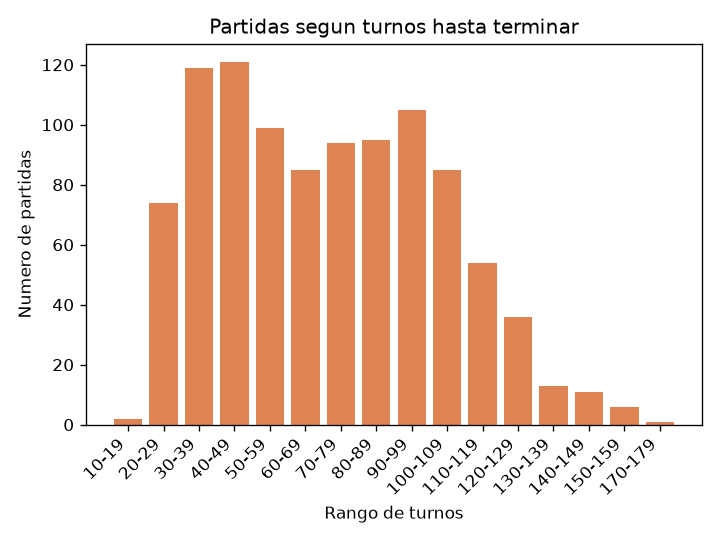
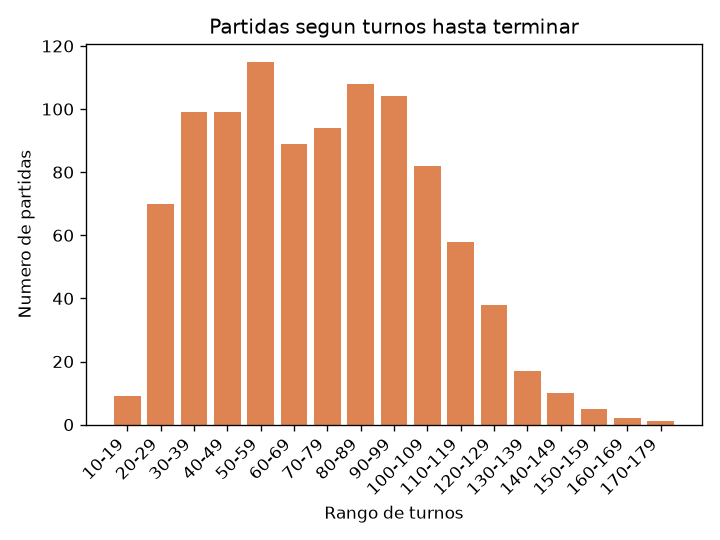
[DOCS]: Readme correction

diff --git a/README.md b/README.md
@@ -194,75 +194,76 @@ reproducirse offline.
 
 `main.py` corre un **batch de 1000 partidas independientes** (una por semilla,
 `seed=range(1000)`, estrategia `optimized`, tope de 500 turnos) vía `mesa.batch_run()`
-y produce tres gráficas de resumen. Estas son las estadísticas obtenidas en una corrida
-representativa de ese batch.
+y produce tres gráficas de resumen. Estas son las estadísticas obtenidas en la corrida
+más reciente del batch, ya con las correcciones al algoritmo aplicadas (validación de
+accesibilidad por pared/puerta en `_reaccion_fuego_adyacente`, extensión de esa función
+para apagar también humo, y acumulación de AP entre turnos).
 
 ### Tasa de victoria
 
-En promedio, la estrategia `optimized` **gana alrededor del 10% de las partidas**.
-Entre distintas corridas del mismo batch, la tasa observada varía: en los peores casos
-baja hasta **7%**, y en los mejores llega a **15%**. Esta variabilidad es esperable —
-cada partida depende de dónde caen las tiradas de fuego y de qué tan rápido escala el
-daño estructural antes de que el Coordinator pueda reaccionar.
+En esta corrida, la estrategia `optimized` **ganó ~21.5% de las partidas** (215/1000)
+— más del doble de la tasa reportada en la corrida anterior (~10%). El resto de las
+partidas (~78.5%) terminó en derrota, y en todas por la misma causa: no se registró
+ninguna partida perdida por víctimas. Este salto es consistente con haber corregido un
+bug que dejaba apagar fuego "a través" de paredes/puertas cerradas — el algoritmo
+anterior sobreestimaba su propia efectividad conteniendo el fuego, y esa sobreestimación
+se traducía en victorias que en una partida real no se habrían dado.
 
 ### Causa del resultado final
- 
-
-<div align=center>
-<img width="500" height="auto" alt="Figure_3" src="https://github.com/user-attachments/assets/22067e26-4c53-4e3c-b01c-8b7cbefc1f30" />
-</div>
 
 <br>
 
-La inmensa mayoría de las derrotas (~88% del total) ocurre por **colapso estructural**
-(≥24 puntos de daño), no por pérdida de víctimas — el conteo de partidas perdidas por
-víctimas es prácticamente nulo. Esto sugiere que el cuello de botella actual del
-algoritmo no es la logística de rescate en sí (el Coordinator sí llega a las víctimas a
-tiempo), sino la contención del fuego: las explosiones acumulan daño estructural más
-rápido de lo que el equipo puede apagar fuego general, incluso con el bono de triage.
+De las 1000 partidas, **785 se perdieron por colapso estructural** (≥24 puntos de daño)
+y **215 se ganaron**; ninguna terminó en derrota por pérdida de víctimas. La proporción
+de derrotas por daño estructural bajó de ~88% a ~78.5% respecto a la corrida anterior,
+pero sigue siendo, por un margen amplio, la causa dominante de derrota. El cuello de
+botella del algoritmo sigue siendo el mismo: la logística de rescate funciona bien (cero
+víctimas perdidas), pero contener el fuego real —sin el bug que lo abarataba— todavía no
+alcanza para evitar que la mayoría de los edificios colapse.
 
 ### Duración de las partidas
- 
- 
 
-<div align=center>
-<img width="500" height="auto" alt="Figure_2" src="https://github.com/user-attachments/assets/82e23c3b-7c7d-4934-8c07-d5385b4e2e3a" />
-</div>
+
 
 <br>
 
-La mayoría de las partidas termina entre los turnos **50 y 119**, con un pico
-claro en el rango **70-79**. Muy pocas partidas se extienden más allá de 150 turnos o
-terminan antes del turno 30 — es decir, el resultado (ganar o perder) tiende a
-definirse en una ventana relativamente consistente de la partida, ni demasiado
-temprano ni cerca del límite de 500 turnos.
+La distribución cambió de forma: el pico ahora está en el rango **50-59** turnos
+(~115 partidas), más temprano que el pico anterior (70-79). Sin embargo, aparece un
+segundo grupo casi tan alto entre **80-99** turnos (~108 y ~104 partidas
+respectivamente), dando una forma **bimodal**: un cúmulo de partidas que se resuelven
+rápido (probablemente derrotas tempranas por colapso estructural) y otro cúmulo de
+partidas más largas (probablemente los rescates que sí llegan a las 7 víctimas). Muy
+pocas partidas superan los 150 turnos o terminan antes del turno 20.
 
 ### Víctimas salvadas por partida
- 
 
- <div align=center>
-<img width="500" height="auto" alt="Figure_1" src="https://github.com/user-attachments/assets/90d58e68-69f8-4096-8ab9-46858381ce37" />
- </div>
 
 <br>
 
-La distribución de víctimas salvadas (de 0 a 7, el umbral de victoria) está
-concentrada en la zona media: **2 y 3 víctimas salvadas son los resultados más
-comunes**, seguidos de cerca por 1 y 4. Llegar a las 7 necesarias para ganar ocurre en
-una porción visible pero minoritaria de las partidas, coherente con la tasa de
-victoria de ~10% reportada arriba — el equipo suele avanzar bien en rescates parciales,
-pero rara vez sostiene ese ritmo el tiempo suficiente sin que el edificio colapse antes.
+Este es el cambio más marcado: la distribución dejó de concentrarse en la zona media
+(2-3 víctimas, como en la corrida anterior) y ahora tiene su **moda en 7 víctimas
+salvadas** (216 partidas, el resultado más común de todos), seguida de 1 víctima (176)
+y 2 víctimas (153). El resultado es una forma más bimodal que antes: las partidas
+tienden a **rescatar casi todo o casi nada**, con menos casos de rescates parciales
+"a medias" (4, 5 o 6 víctimas) que en la corrida anterior. Esto es coherente con la
+duración bimodal de arriba — cuando el equipo logra contener el fuego lo suficiente
+como para sobrevivir los primeros turnos críticos, tiende a terminar el trabajo casi
+por completo; cuando no, colapsa temprano habiendo rescatado poco.
 
 ### Lectura general
 
-En conjunto, las tres gráficas apuntan a la misma conclusión: el algoritmo de
-coordinación es efectivo salvando víctimas de forma parcial y consistente, pero el
-daño estructural acumulado por explosiones es, hoy, la principal causa de derrota muy
-por encima de la pérdida directa de víctimas. Cualquier mejora futura al Coordinator
-enfocada en frenar el daño estructural (p. ej. afinar `scan_chain_breaks`,
-`scan_general_fire` o el peso del `triage_factor`) es la palanca con más margen para
-subir la tasa de victoria por encima del ~10-15% actual.
-
+Las correcciones aplicadas al algoritmo subieron la tasa de victoria de ~10% a ~21.5%
+en esta corrida, confirmando que el bug de accesibilidad estaba inflando artificialmente
+el desempeño reportado antes. El colapso estructural sigue siendo, con amplio margen, la
+principal causa de derrota (ninguna partida se pierde ya por víctimas), pero ahora
+explica una porción menor del total que antes. El patrón de resultados también se volvió
+más polarizado: las partidas tienden a ganarse casi por completo o perderse temprano,
+sugiriendo que existe una ventana crítica (aprox. los primeros 50-60 turnos) donde se
+decide si el equipo logra estabilizar el fuego o el edificio entra en una espiral de
+daño de la que ya no se recupera. Seguir bajando esa tasa de colapso temprano —por
+ejemplo con las mejoras discutidas sobre `scan_chain_breaks`, `triage_factor` gradual, o
+gestión activa de puertas para compartimentar zonas— sigue siendo la palanca con más
+margen para subir el win rate por encima del ~20% actual.
 ---
 
 ## Diagrama de clases
